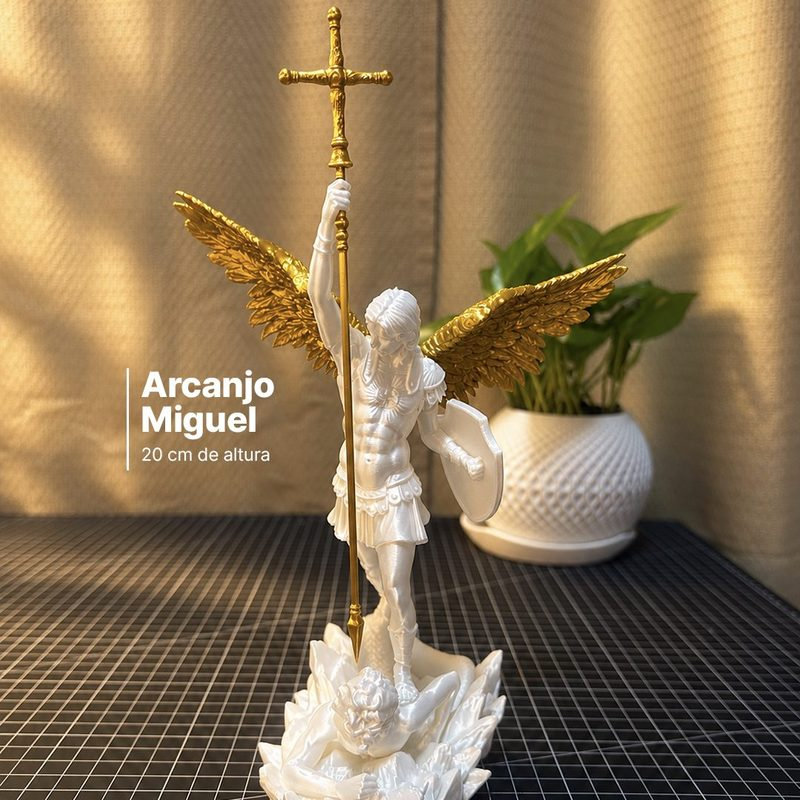
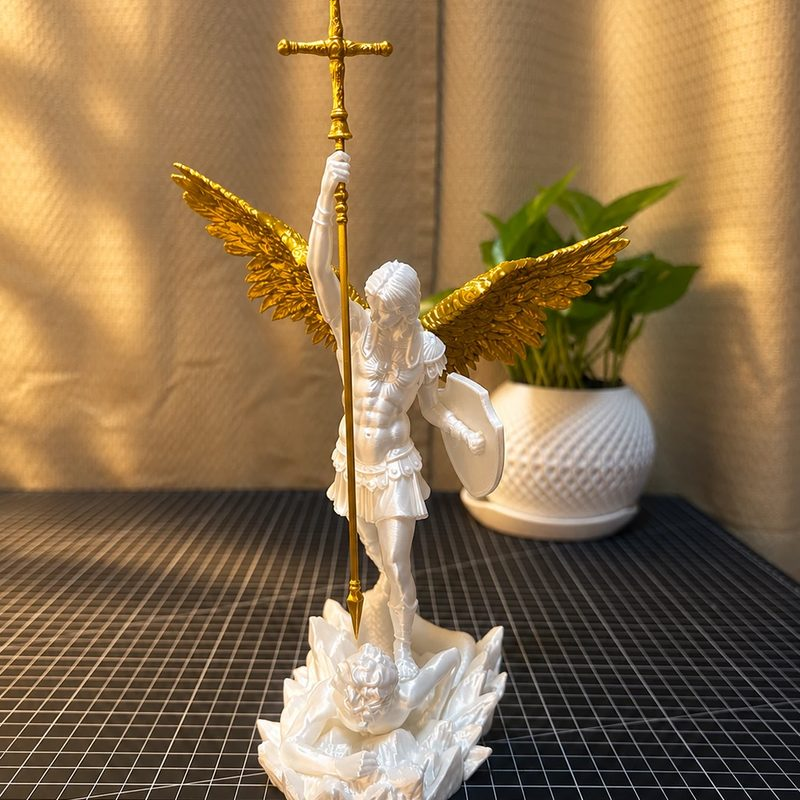
Adiciona Ogum, Nanã, Porta-terço Sagrada Família e Espartano; nova foto do Arcanjo Miguel
Claude-Session: https://claude.ai/code/session_01Fv5WR7LadcT77Q99g8dngj

diff --git a/produtos.js b/produtos.js
@@ -66,4 +66,40 @@ const PRODUTOS = [
     estoque: 1,
     foto: "img/produtos/caboclo.jpg",
   },
+  {
+    id: "ogum",
+    nome: "Ogum",
+    detalhe: "20 cm de altura · pintura artesanal",
+    categoria: "Religiosos",
+    preco: 80,
+    estoque: 1,
+    foto: "img/produtos/ogum.jpg",
+  },
+  {
+    id: "nana",
+    nome: "Nanã",
+    detalhe: "20 cm de altura",
+    categoria: "Religiosos",
+    preco: 120,
+    estoque: 1,
+    foto: "img/produtos/nana.jpg",
+  },
+  {
+    id: "sagrada-familia-porta-terco",
+    nome: "Porta-terço Sagrada Família",
+    detalhe: "Base para guardar o terço",
+    categoria: "Religiosos",
+    preco: 60,
+    estoque: 1,
+    foto: "img/produtos/sagrada-familia-porta-terco.jpg",
+  },
+  {
+    id: "espartano",
+    nome: "Espartano",
+    detalhe: "16 cm de altura",
+    categoria: "Colecionáveis",
+    preco: 89,
+    estoque: 1,
+    foto: "img/produtos/espartano.jpg",
+  },
 ];

diff --git a/style.css b/style.css
@@ -140,7 +140,7 @@ a { color: inherit; }
 .produto__foto { position: relative; aspect-ratio: 1; background: var(--fundo-suave); }
 .produto__foto img { width: 100%; height: 100%; object-fit: cover; }
 .selo {
-  position: absolute; top: 12px; left: 12px;
+  position: absolute; bottom: 12px; left: 12px;
   padding: 5px 10px; border-radius: var(--radius-sm);
   background: #fff; color: #2A2A2A;
   font: 500 12px/1.2 var(--texto); letter-spacing: .04em; text-transform: uppercase;
